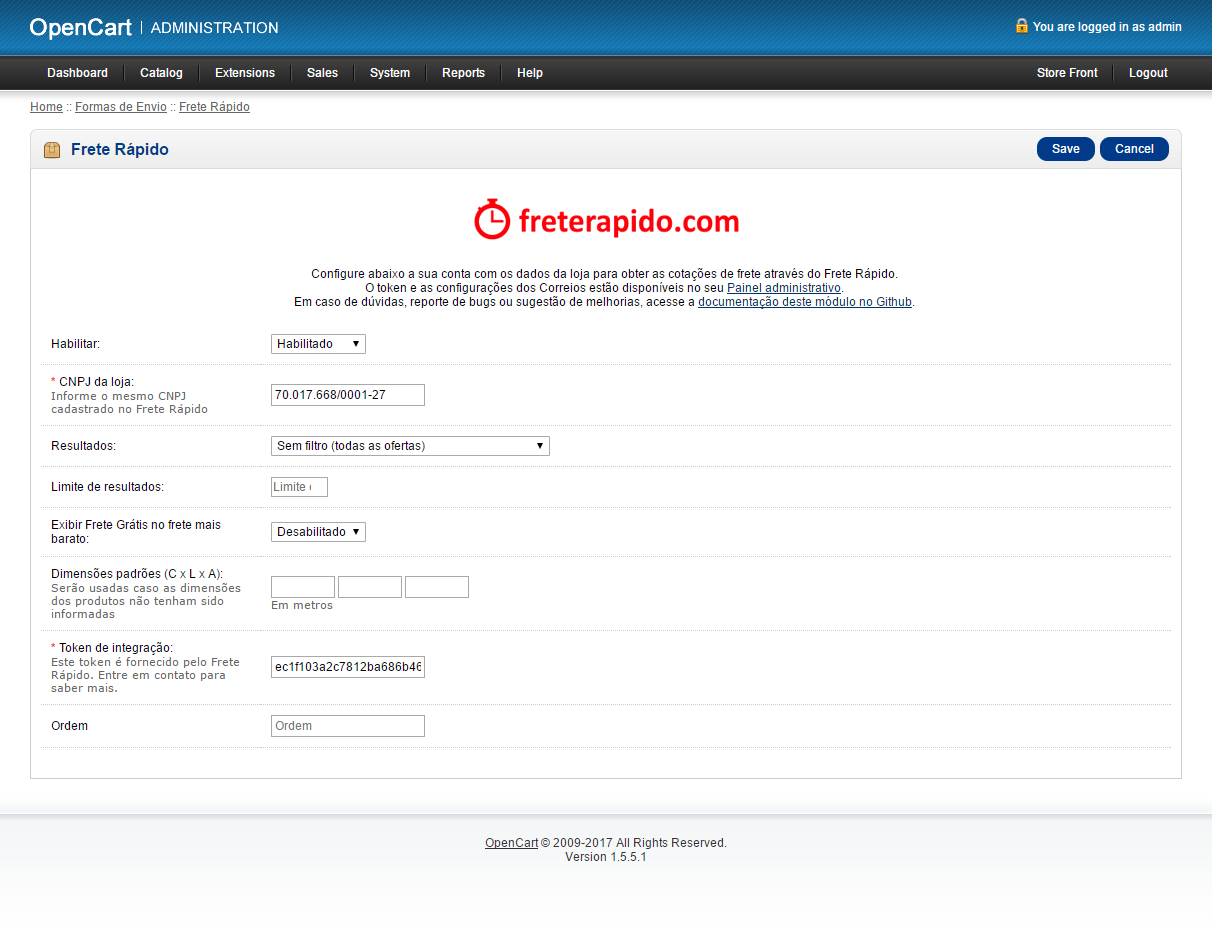
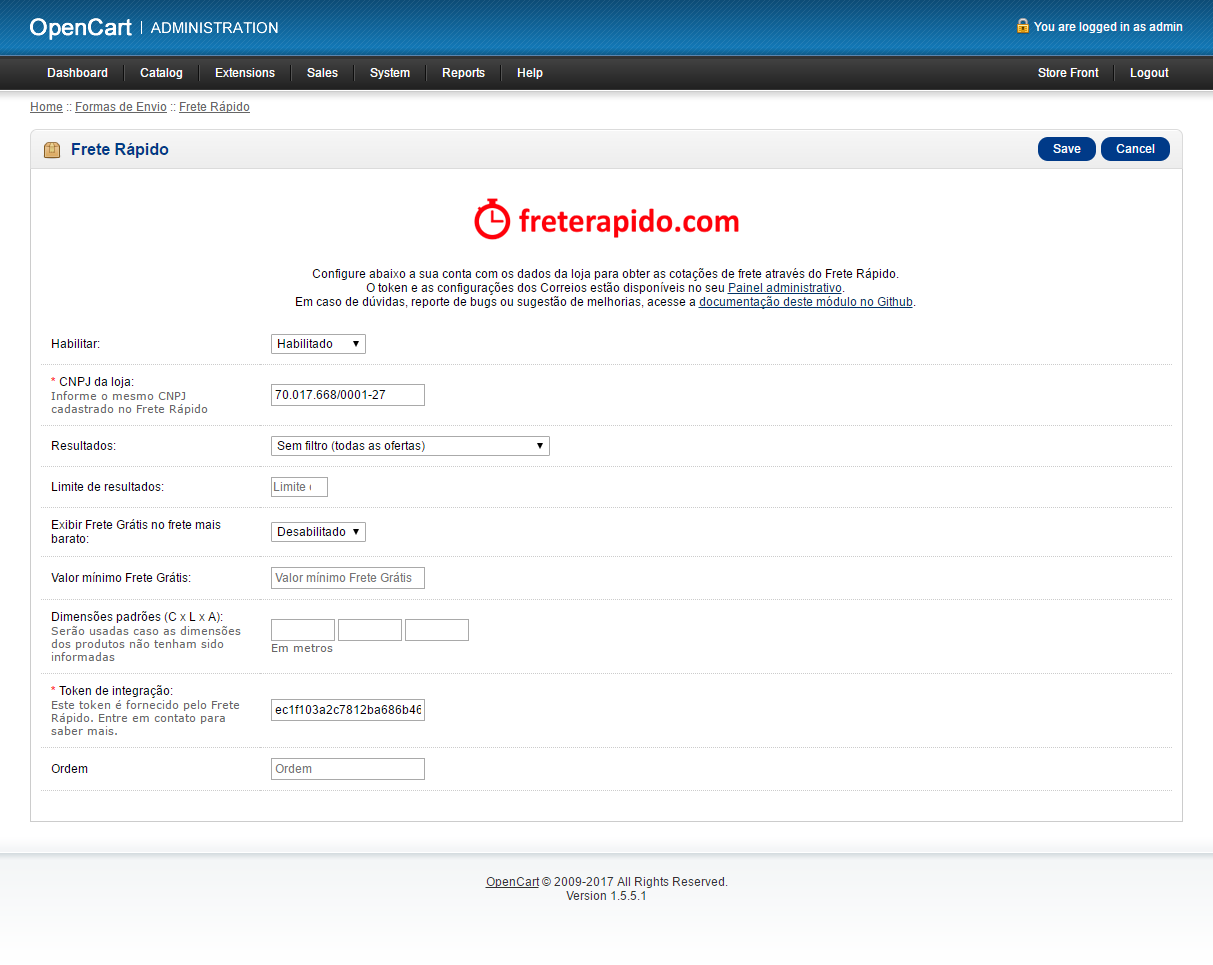
novo parâmetro na config do módulo

Changed region(s): [[0.0305, 0.2117, 0.7632, 0.8164], [0.0, 0.0, 1.0, 0.1814], [0.3969, 0.8769, 0.6106, 0.9374]]

diff --git a/README.md b/README.md
@@ -4,7 +4,7 @@
 
 ### **Módulo para plataforma OpenCart**
 
-Versão do módulo: 1.0.1
+Versão do módulo: 1.0.2
 
 Compatibilidade com OpenCart: **1.5.x**
 
@@ -50,6 +50,7 @@ Links úteis:
 - **Resultados:** Define como deseja receber as cotações.
 - **Limite de resultados:** Define a quantidade máxima de cotações que deseja obter.
 - **Exibir Frete Grátis no frete mais barato:** Apresenta para o cliente da loja o frete mais barato como **Frete Grátis**.
+- **Valor Mínimo Frete Grátis:**  Define o valor mínimo para ativar a regra de **Frete grátis**. Para valor **indefinido**, informe **0**.
 - **Dimensões padrões (C x L x A):** Permite informar dimensões padrões de encomendas, geralmente usado quando se tem um único tipo de encomenda.
 - **Token de integração:** Token de integração da sua empresa disponível no [Painel administrativo do Frete Rápido][2] > Empresa > Integração.
 - **Ordem:** Ordenação do plugin na sua loja.
